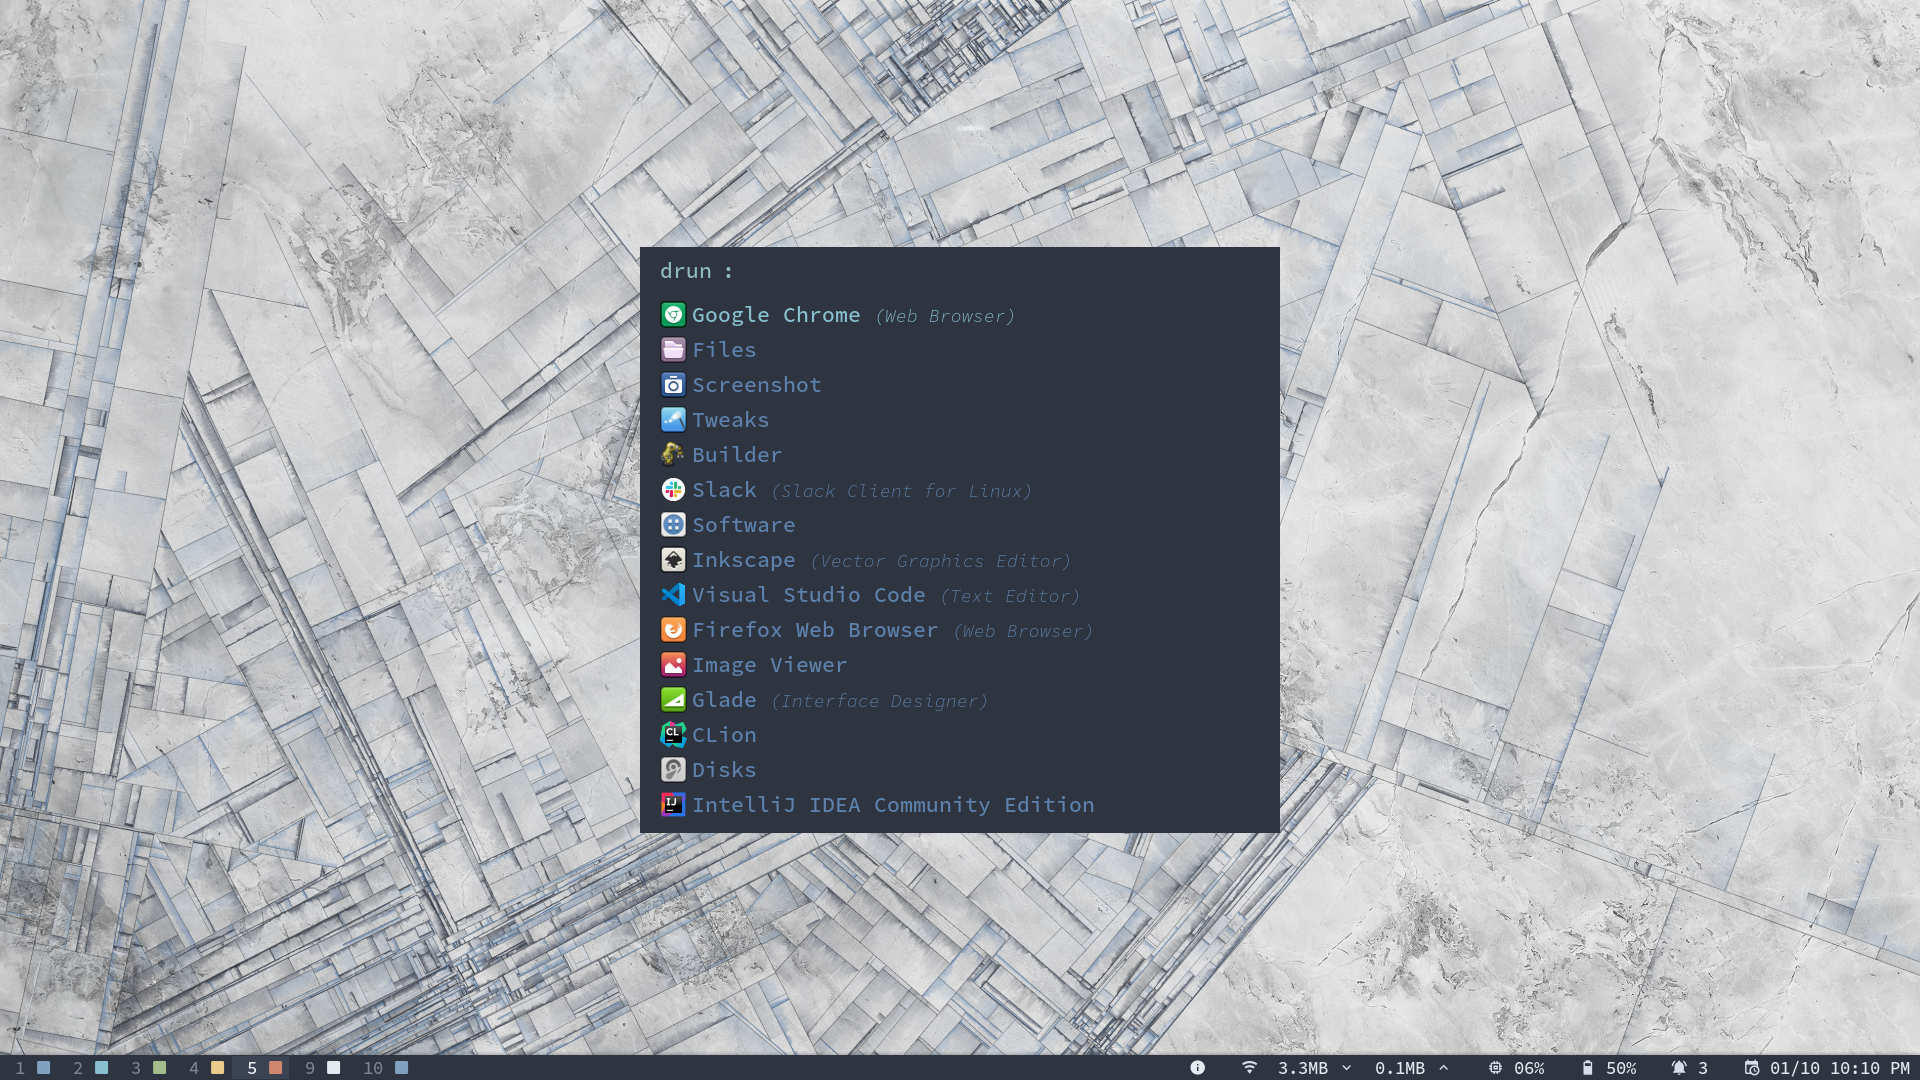
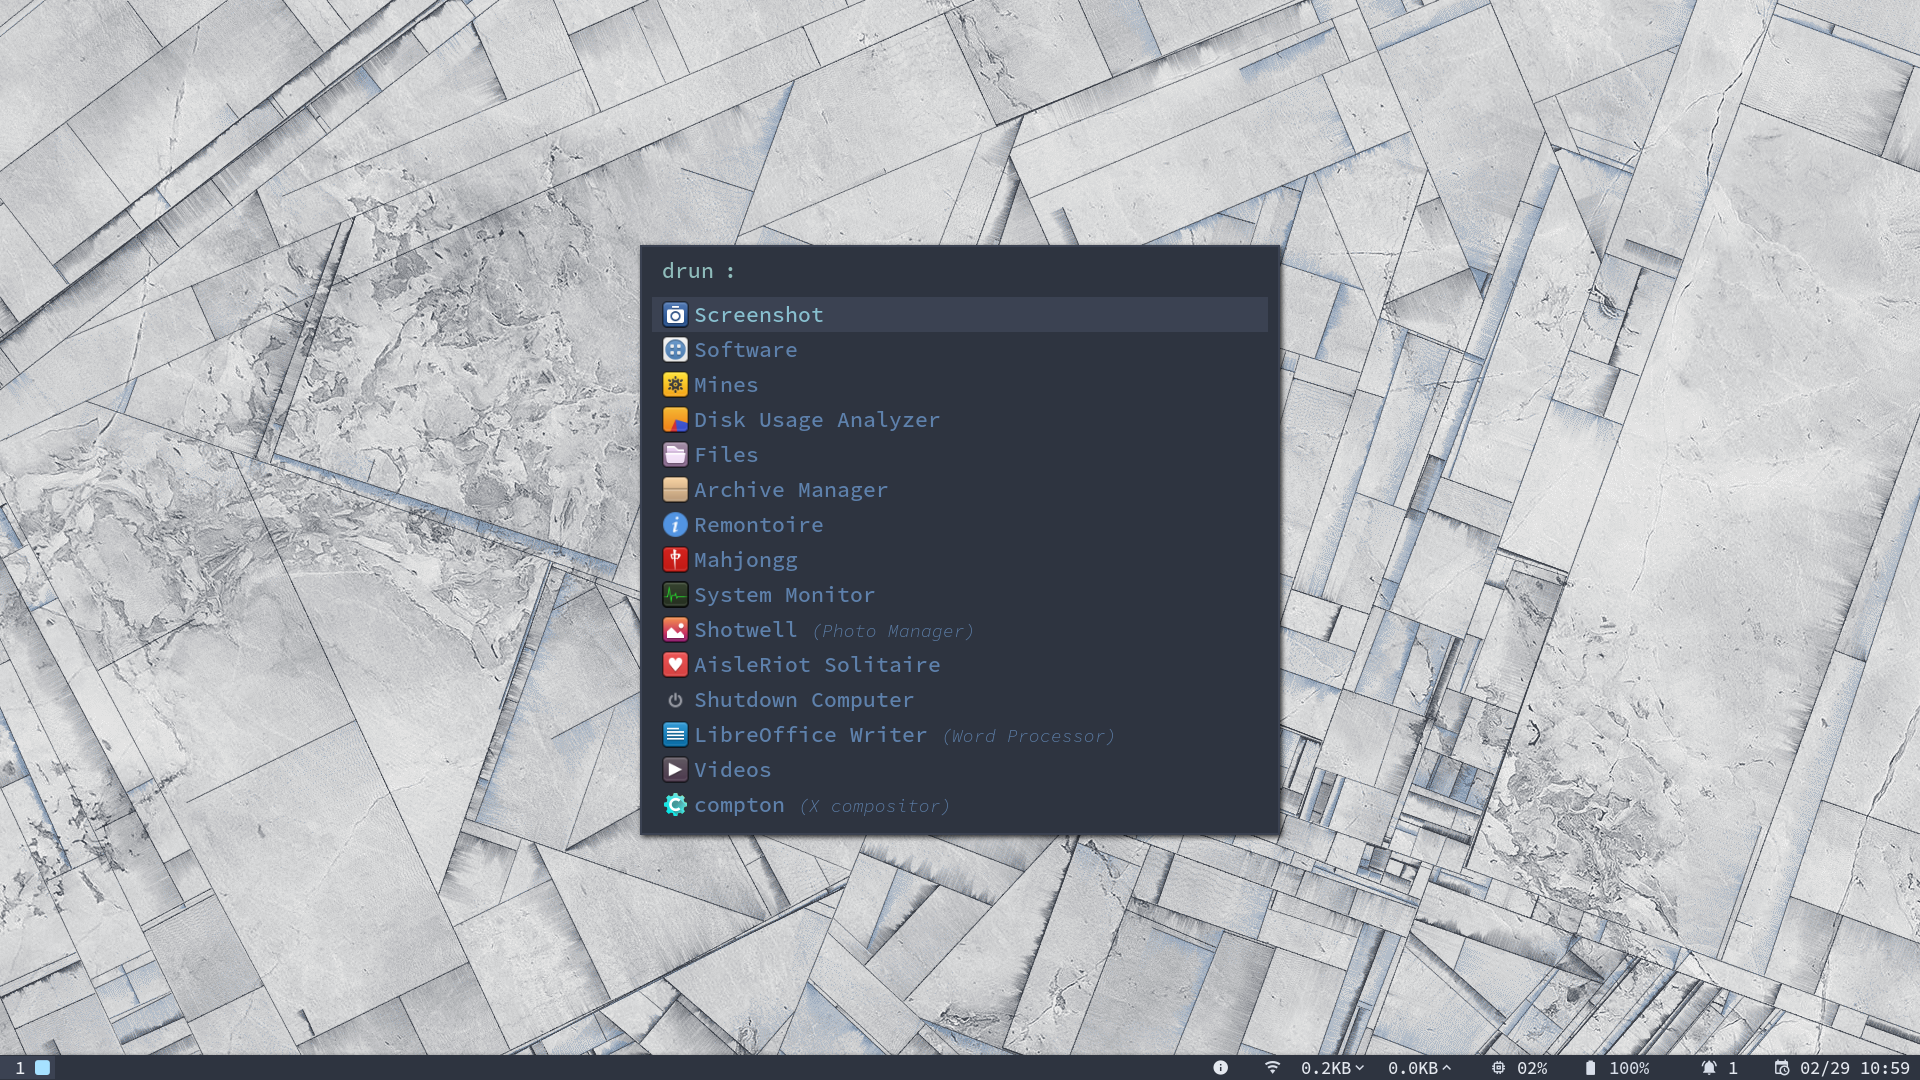
Update screenshots for R1.3.1.

Changed region(s): [[0.0, 0.0, 1.0, 1.0], [0.9688, 0.2139, 1.0, 0.2444]]

diff --git a/content/en/_index.md b/content/en/_index.md
@@ -9,7 +9,7 @@ linkTitle = "Regolith Linux"
 <p class="lead m-5">Regolith is a modern desktop environment that saves you time by reducing the clutter and ceremony that stand between you and your work. Built on top of Ubuntu and GNOME, Regolith stands on a well-supported and consistent foundation.</p>
 
 <div class="row">
-  <div class="col-sm-8 mb-5">{{< img screenshot-title.png "Regolith Linux" >}}</div>
+  <div class="col-sm-8 mb-5">{{< img regolith-screenshot-r1.3.1-busy.png "Regolith Linux" >}}</div>
   <div class="col-sm-4">
     <div class="mx-auto">
     <a class="btn btn-lg btn-secondary mr-3 mb-4" href="{{< relref "/download" >}}">
@@ -58,8 +58,8 @@ linkTitle = "Regolith Linux"
     <div class="col-4 my-auto border rounded p-1">{{< screenshot regolith-screenshot-solarized.png "Solarized" >}}</div>    
   </div>
   <div class="row pb-5">
-    <div class="col-4 my-auto border rounded p-1">{{< screenshot screenshot-transmission.png "Downloads" >}}</div>
-    <div class="col-8 my-auto"><p>Launch Transmission via the app launcher <span class="text-nowrap"><span class="badge badge-warning">super</span> <span class="badge badge-warning">space</span></span> and manage files with Nautilus <span class="text-nowrap"><span class="badge badge-warning">super</span> <span class="badge badge-warning">N</span></span>.</p></div>    
+    <div class="col-4 my-auto border rounded p-1">{{< screenshot screenshot-updates.png "System Updates" >}}</div>
+    <div class="col-8 my-auto"><p>Regolith is built on Ubuntu, providing a system that's up to date and stable.</p></div>    
   </div>
   <div class="row pb-5">
     <div class="col-8 my-auto"><p>Got a lot going on?  Quickly find the window you're looking for via <span class="text-nowrap"><span class="badge badge-warning">super</span> <span class="badge badge-warning">ctrl</span> <span class="badge badge-warning">space</span></span> or navigate over workspaces with <span class="text-nowrap"><span class="badge badge-warning">super</span> <span class="badge badge-warning">[0 - 19]</span></span>.</p></div>
@@ -70,12 +70,12 @@ linkTitle = "Regolith Linux"
     <div class="col-8 my-auto"><p>Waste no space on frivolous UI and take advantage of every pixel without micro-managing your window layouts.</p></div>    
   </div>
   <div class="row pb-5">
-    <div class="col-8 my-auto"><p>Manage your notifications with an on-screen dialog by pressing <span class="text-nowrap"><span class="badge badge-warning">super</span> <span class="badge badge-warning">n</span></span>.</p></div>
+    <div class="col-8 my-auto"><p>Desktop notifications do not compete for your attention, but rather can be managed via an on-screen dialog by pressing <span class="text-nowrap"><span class="badge badge-warning">super</span> <span class="badge badge-warning">n</span></span>.</p></div>
     <div class="col-4 my-auto border rounded p-1">{{< screenshot screenshot-notifications.png "Notifications" >}}</div>    
   </div>
   <div class="row pb-5">
     <div class="col-4 my-auto border rounded p-1">{{< screenshot screenshot-updates.png "System Updates" >}}</div>
-    <div class="col-8 my-auto"><p>Regolith is built on Ubuntu, providing a system that's up to date and stable.</p></div>    
+    <div class="col-8 my-auto"><p>Regolith is built on Ubuntu, providing a system that's up-to-date, stable, and well documented.</p></div>    
   </div>
 </div>
 

diff --git a/content/en/docs/Reference/Releases/regolith-1.3.1-release-notes.md b/content/en/docs/Reference/Releases/regolith-1.3.1-release-notes.md
@@ -45,7 +45,7 @@ R1.3.1 is a quick followup to R1.3 that adds polish and usability features.  Hea
         <tr>
             <td>Locale used for date/time Format</td>
             <td></td>
-            <td>For those not using the US date and time formats, the bar clock will now automatically use the GNOME hour format and the <code>locale</code> <code>LC_TIME</code> setting to automatically display time in the preferred form without configuration.</td>
+            <td>For those not using the US date and time formats, the bar clock will now automatically use the GNOME hour format and the <code>locale</code> <code>LC_TIME</code> setting to automatically display date and time in the regional form without configuration.</td>
         </tr>
         <tr>
             <td>UI Tweaks and Polish</td>
